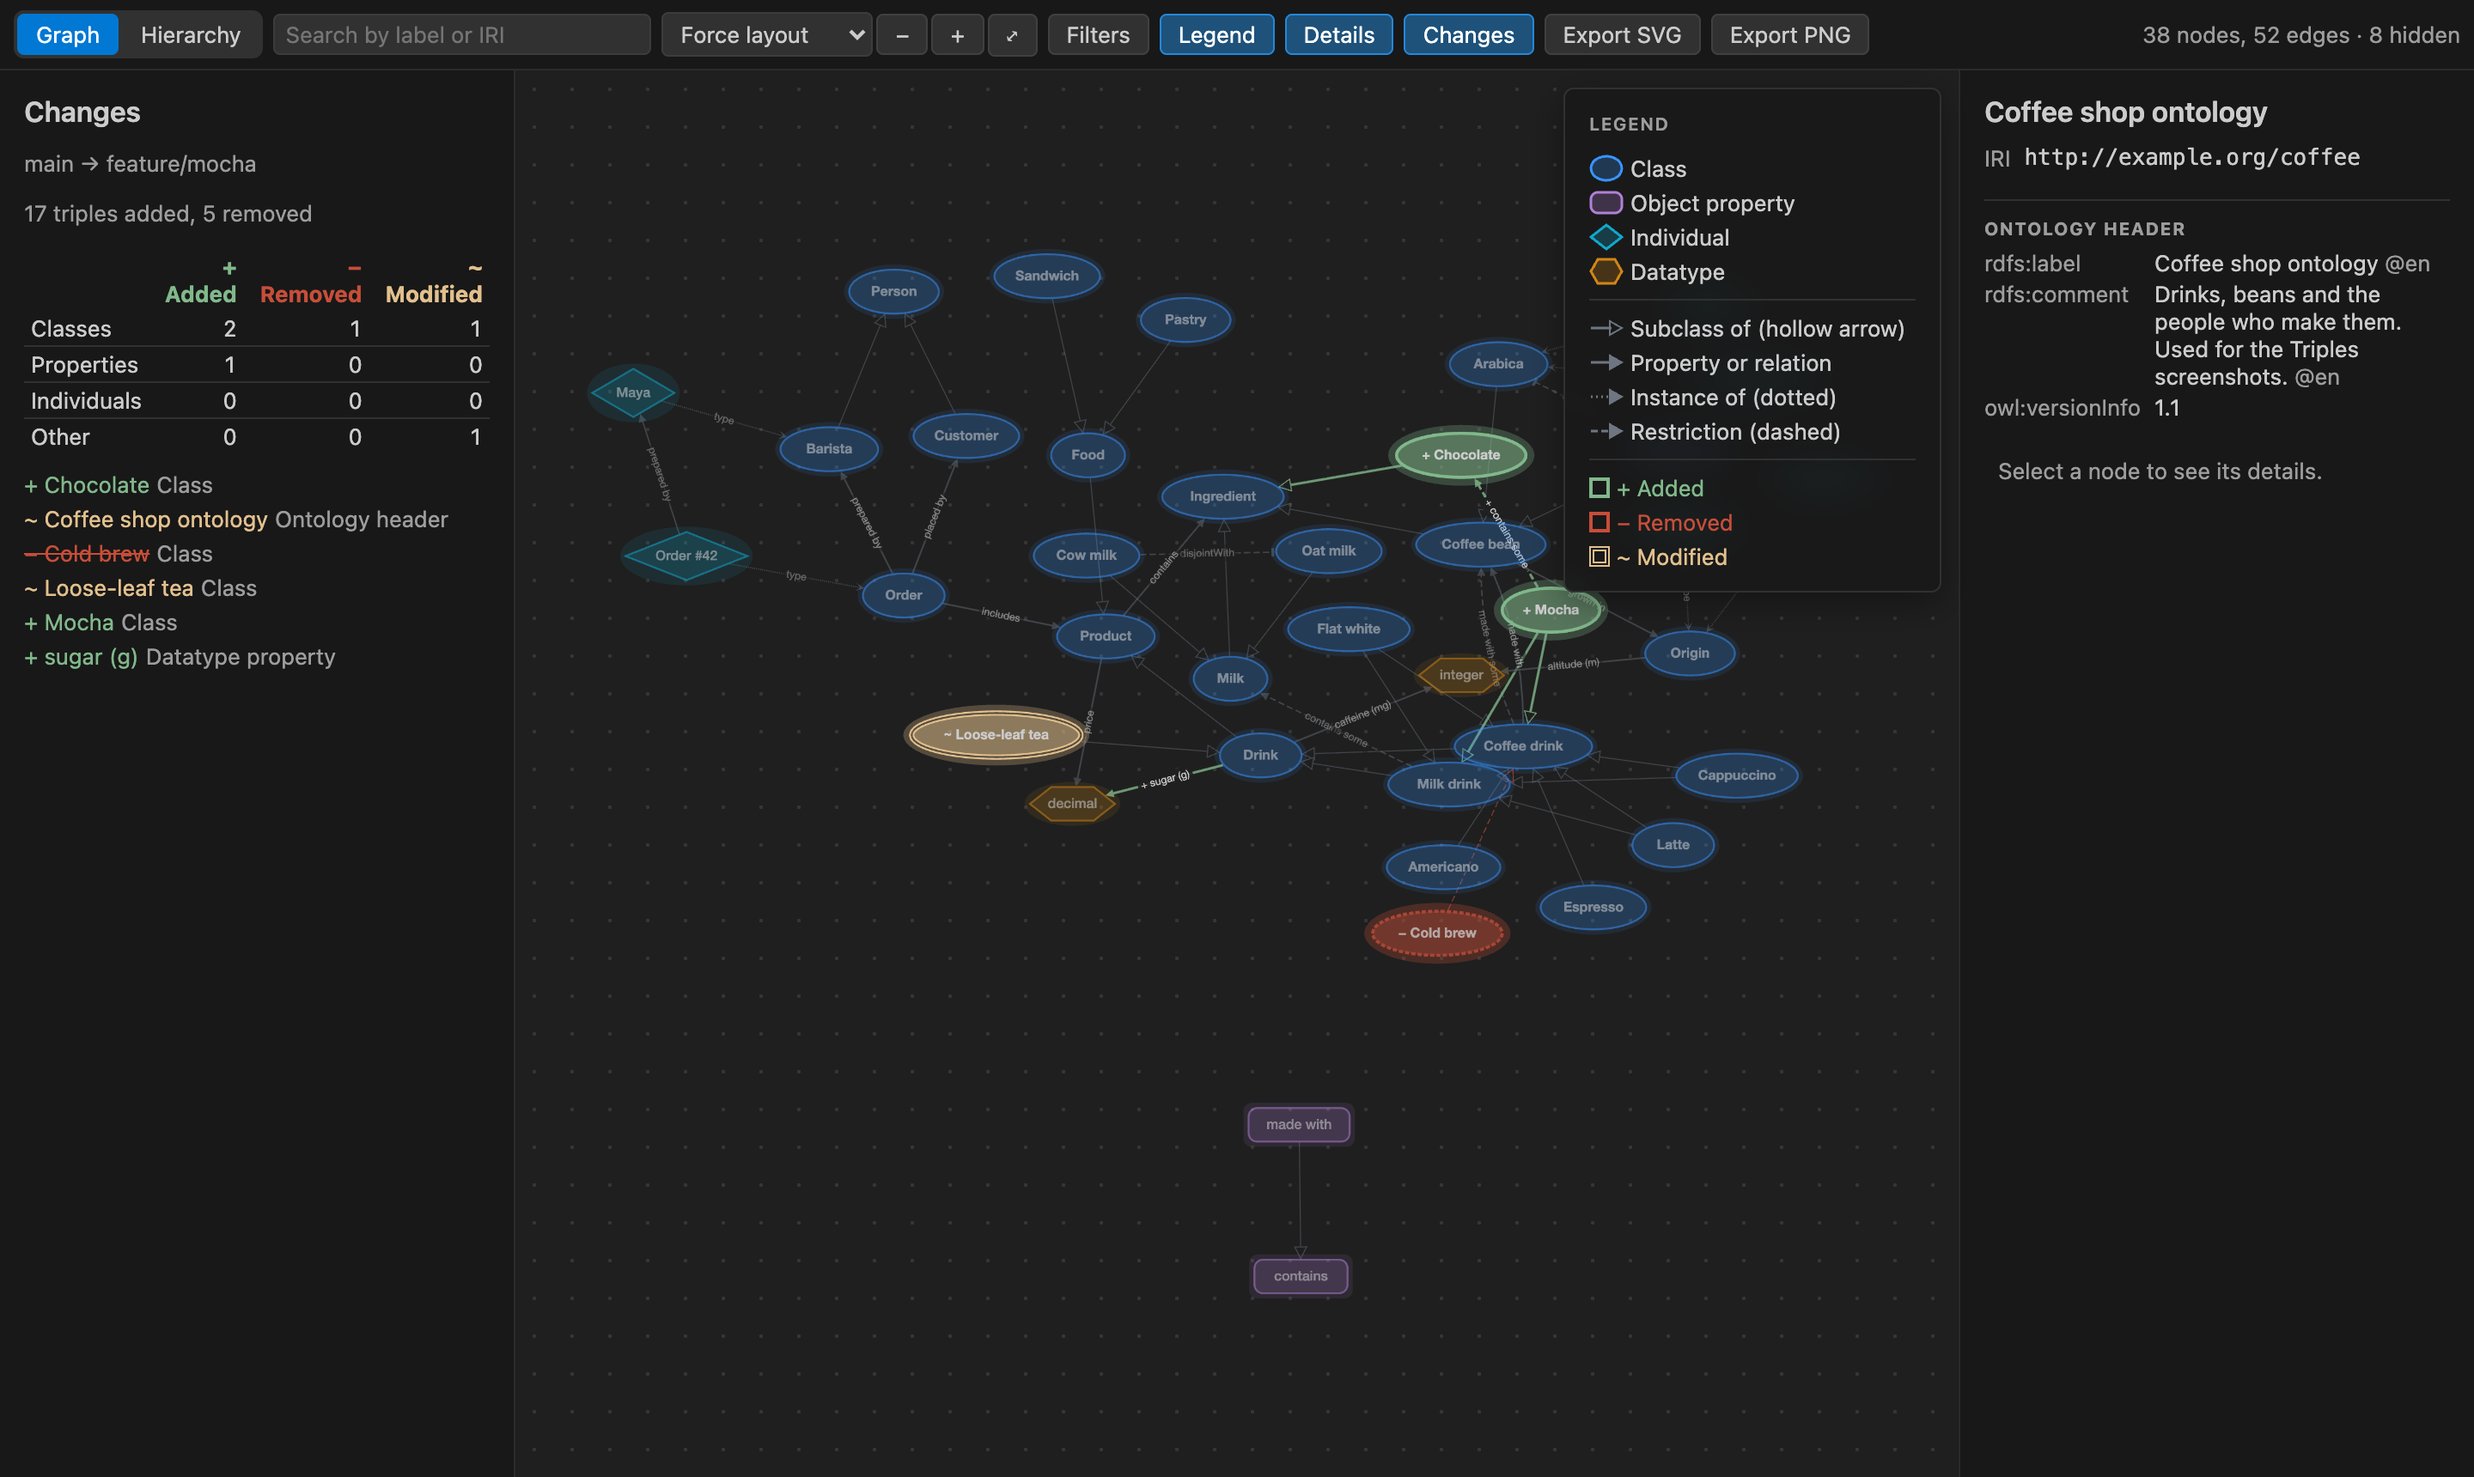
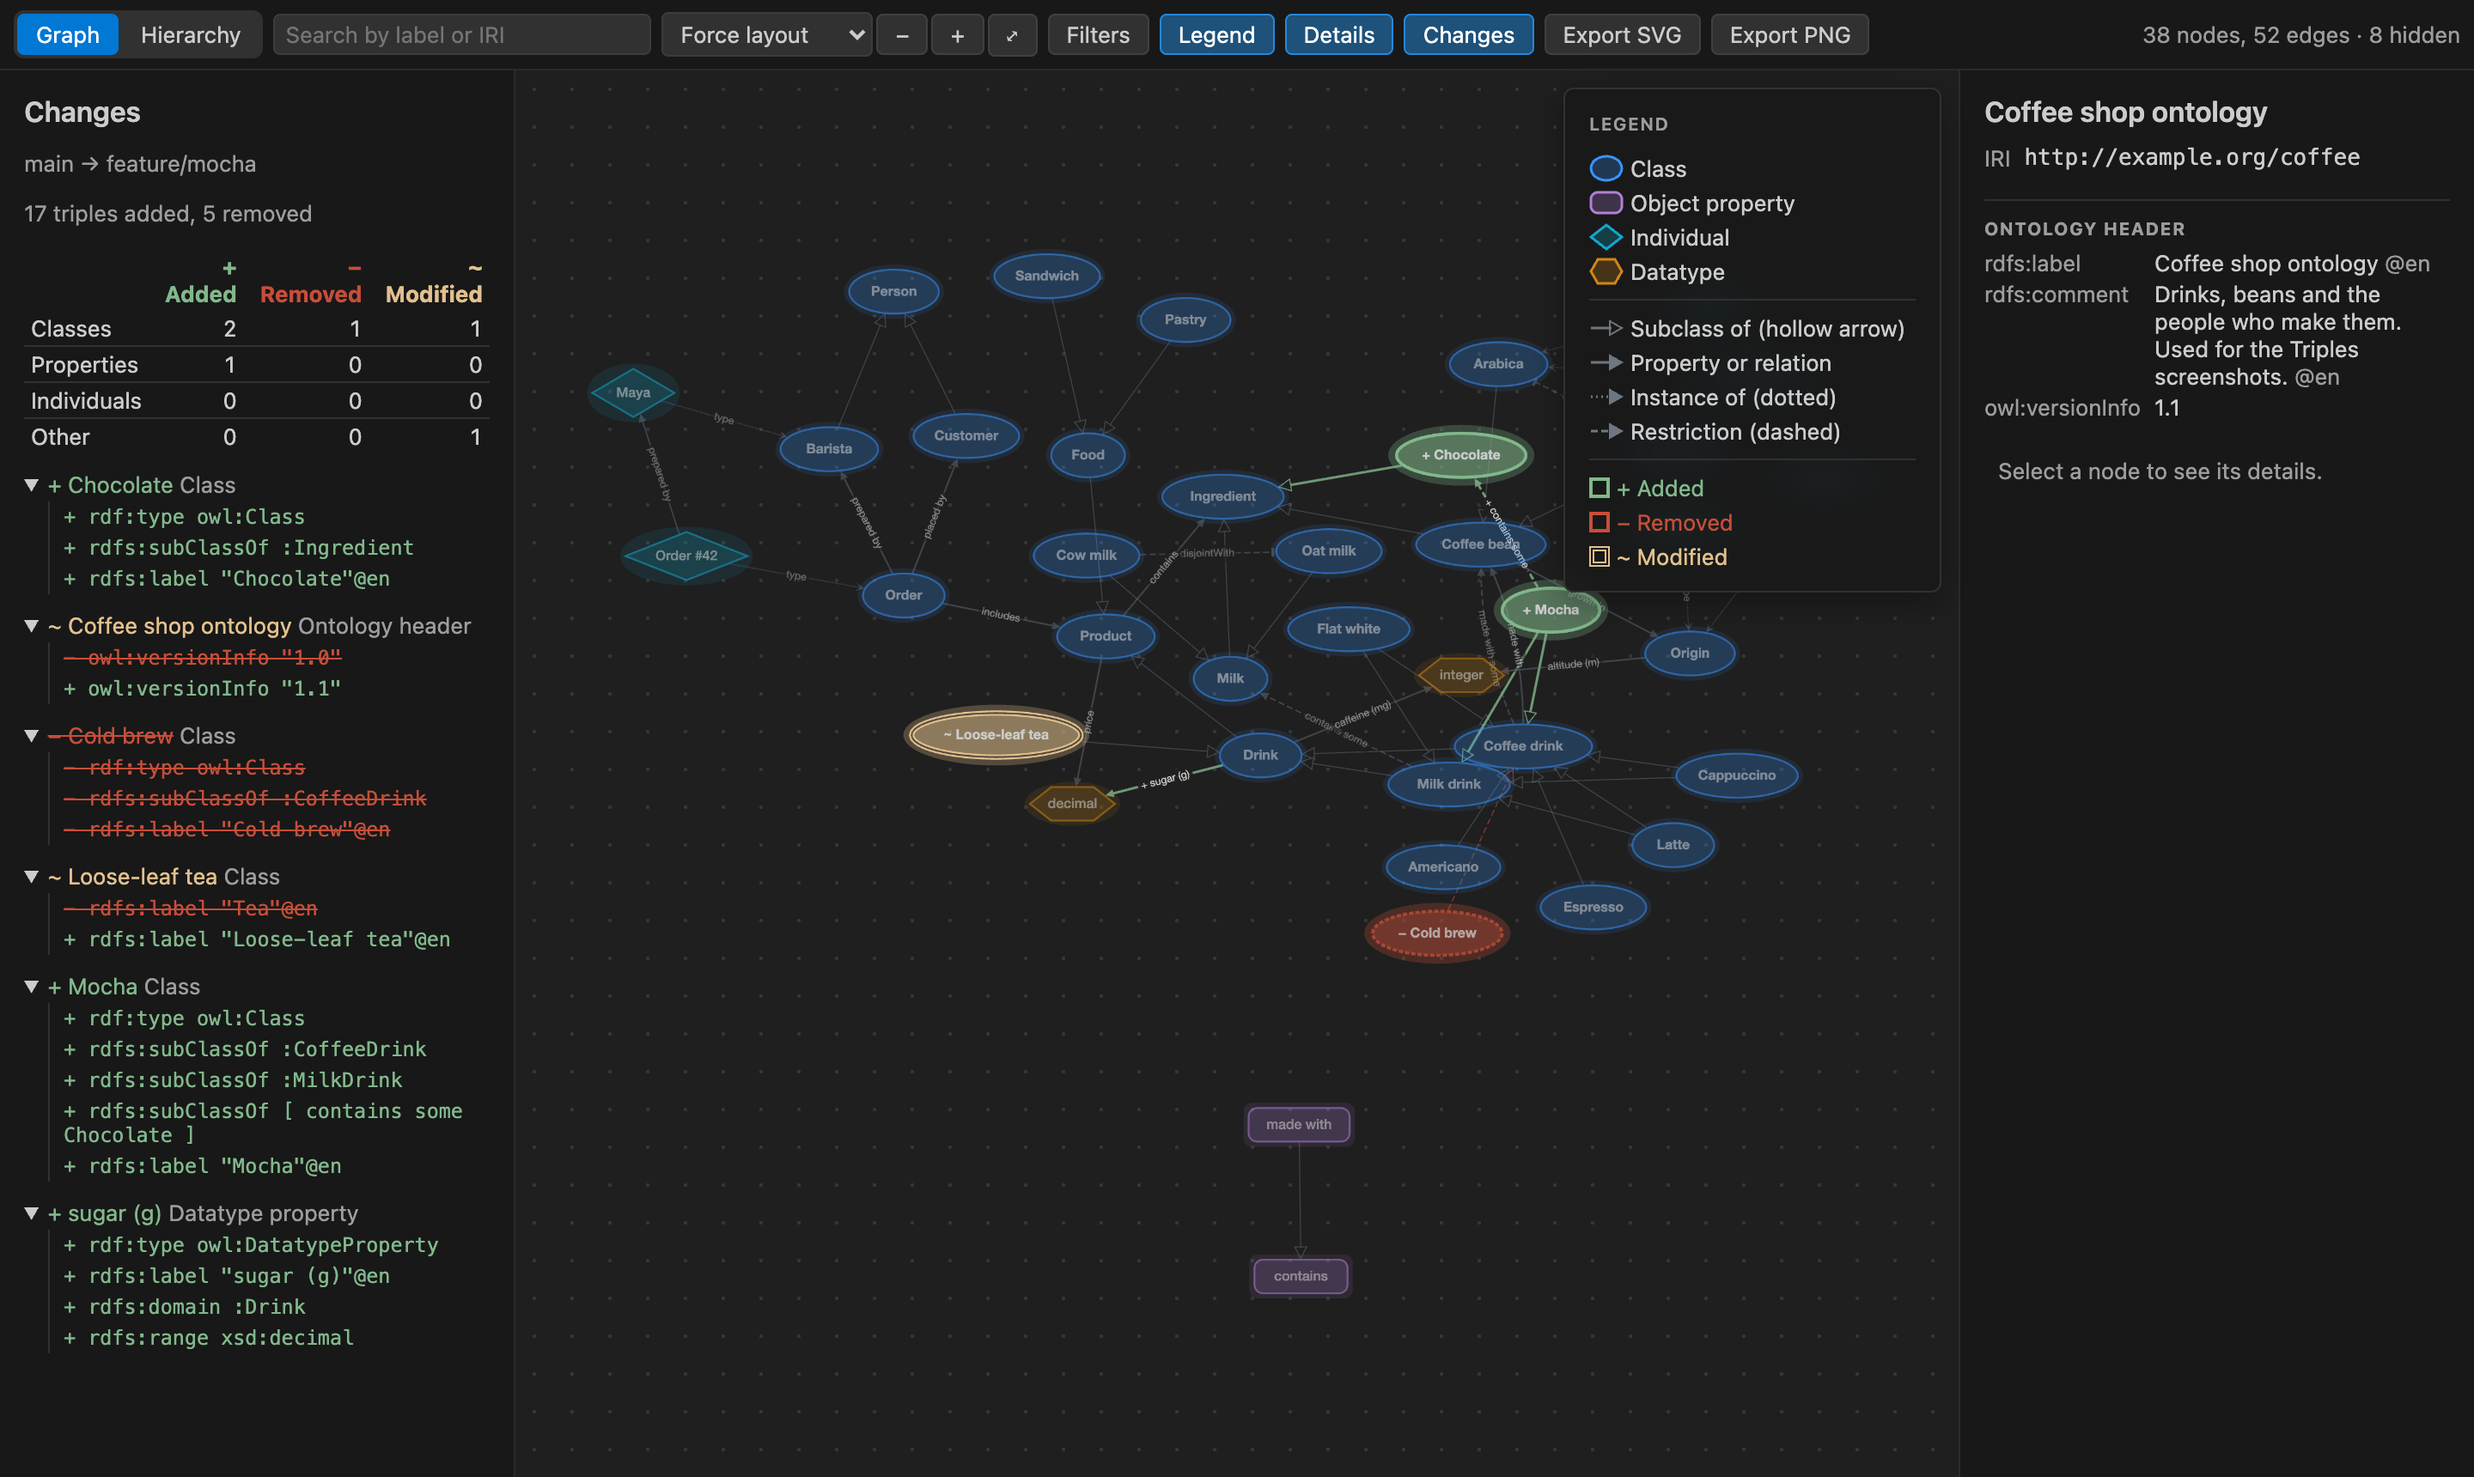
feat(diff): nest each entity's statement changes in the changes panel
The flat list hid what changed behind a tooltip. Bumps to 0.3.0.

Changed region(s): [[0.0, 0.3081, 0.1875, 0.9244]]

diff --git a/src/webview/diffPanel.ts b/src/webview/diffPanel.ts
@@ -1,7 +1,11 @@
-import type { DiffResult, SummaryCategory } from '../core/diff/diff';
+import type { DiffResult, EntityChange, SummaryCategory } from '../core/diff/diff';
+import { changeList } from './detailsPanel';
 import { h } from './dom';
 import { categoryNames, kindNames, statusNames, strings } from './strings';
 import { STATUS_MARK } from './theme';
+
+/** Short change lists start expanded; long ones would bury the entity names. */
+const OPEN_LIMIT = 10;
 
 export interface DiffTitles {
   readonly before: string;
@@ -54,26 +58,7 @@ export function renderDiffPanel(
           'ul',
           { class: 'change-list' },
           ...diff.changes.map((change) =>
-            h(
-              'li',
-              {},
-              h(
-                'button',
-                {
-                  class: `link status-${change.status}`,
-                  title: change.changes
-                    .map((line) => `${STATUS_MARK[line.status]}${line.text}`)
-                    .join('\n'),
-                  onclick: () => onNavigate(change.id),
-                },
-                `${STATUS_MARK[change.status]}${change.label}`,
-              ),
-              h(
-                'span',
-                { class: 'muted' },
-                ` ${change.kind === 'ontology' ? strings.ontologyHeader : kindNames[change.kind]}`,
-              ),
-            ),
+            h('li', {}, changedEntity(change, diff.changes.length <= OPEN_LIMIT, onNavigate)),
           ),
         );
   target.replaceChildren(
@@ -82,5 +67,38 @@ export function renderDiffPanel(
     h('p', { class: 'muted' }, strings.tripleCounts(diff.addedTriples, diff.removedTriples)),
     counts,
     list,
+  );
+}
+
+function changedEntity(
+  change: EntityChange,
+  open: boolean,
+  onNavigate: (entityId: string) => void,
+): HTMLElement {
+  return h(
+    'details',
+    { class: 'changed-entity', open },
+    h(
+      'summary',
+      {},
+      h(
+        'button',
+        {
+          class: `link status-${change.status}`,
+          onclick: (event: Event) => {
+            // Jump to the node without also folding the entry.
+            event.preventDefault();
+            onNavigate(change.id);
+          },
+        },
+        `${STATUS_MARK[change.status]}${change.label}`,
+      ),
+      h(
+        'span',
+        { class: 'muted' },
+        ` ${change.kind === 'ontology' ? strings.ontologyHeader : kindNames[change.kind]}`,
+      ),
+    ),
+    changeList(change),
   );
 }

diff --git a/media/webview.css b/media/webview.css
@@ -319,6 +319,21 @@ input[type='number'] {
   font-family: var(--vscode-editor-font-family);
 }
 
+.changed-entity {
+  width: 100%;
+}
+
+.changed-entity summary {
+  cursor: pointer;
+}
+
+.changed-entity .change-lines {
+  margin: 2px 0 6px 14px;
+  padding-left: 8px;
+  border-left: 1px solid var(--hairline);
+  font-size: 0.9em;
+}
+
 .link {
   background: none;
   border: none;

diff --git a/src/webview/detailsPanel.ts b/src/webview/detailsPanel.ts
@@ -109,7 +109,7 @@ function literalList(facts: readonly LiteralFact[]): HTMLElement {
   );
 }
 
-function changeList(change: EntityChange): HTMLElement {
+export function changeList(change: EntityChange): HTMLElement {
   return h(
     'ul',
     { class: 'change-lines' },

diff --git a/README.md b/README.md
@@ -65,7 +65,7 @@ You can also right-click a file and choose **Open With... > Triples Visualizer**
 - **Triples: Compare Two Ontologies** compares two files. Select two files in the Explorer, or pick them in a dialog.
 - **Triples: View Ontology Changes** is in the Source Control view on a changed file, and in the title bar of any diff editor. This includes pull request diffs from the GitHub Pull Requests extension, so you can review the PR base against the head.
 
-The changes panel lists added, removed and modified classes, properties and individuals. Click an entry to jump to the node. In the filters, **Show only changes** hides everything else except a ring of unchanged neighbors.
+The changes panel lists added, removed and modified classes, properties and individuals, each with its added and removed statements underneath. Click a name to jump to the node, or the arrow to fold its statements. In the filters, **Show only changes** hides everything else except a ring of unchanged neighbors.
 
 A new or deleted file shows everything as added or removed. A renamed IRI shows as removed plus added.
 

diff --git a/docs/roadmap.md b/docs/roadmap.md
@@ -8,7 +8,6 @@ What is left before a 1.0 release, grouped by milestone from `AGENTS.md`. M1 to 
 
 ## M5 follow-ups (diff)
 
-- Group the change list by entity, with each entity's triple changes nested under it.
 - Apply "show only changes" in the hierarchy view, not just the graph view.
 - Respect the staged state when comparing from the Source Control view (index vs HEAD, working tree vs index).
 

diff --git a/CHANGELOG.md b/CHANGELOG.md
@@ -1,5 +1,9 @@
 # Changelog
 
+## 0.3.0
+
+- The changes panel groups changes by entity: each changed class, property or individual lists its added and removed statements underneath. Short lists start expanded.
+
 ## 0.2.1
 
 - CI: the performance budget allows for slower shared runners, and the VS Code download for integration tests is cached.
